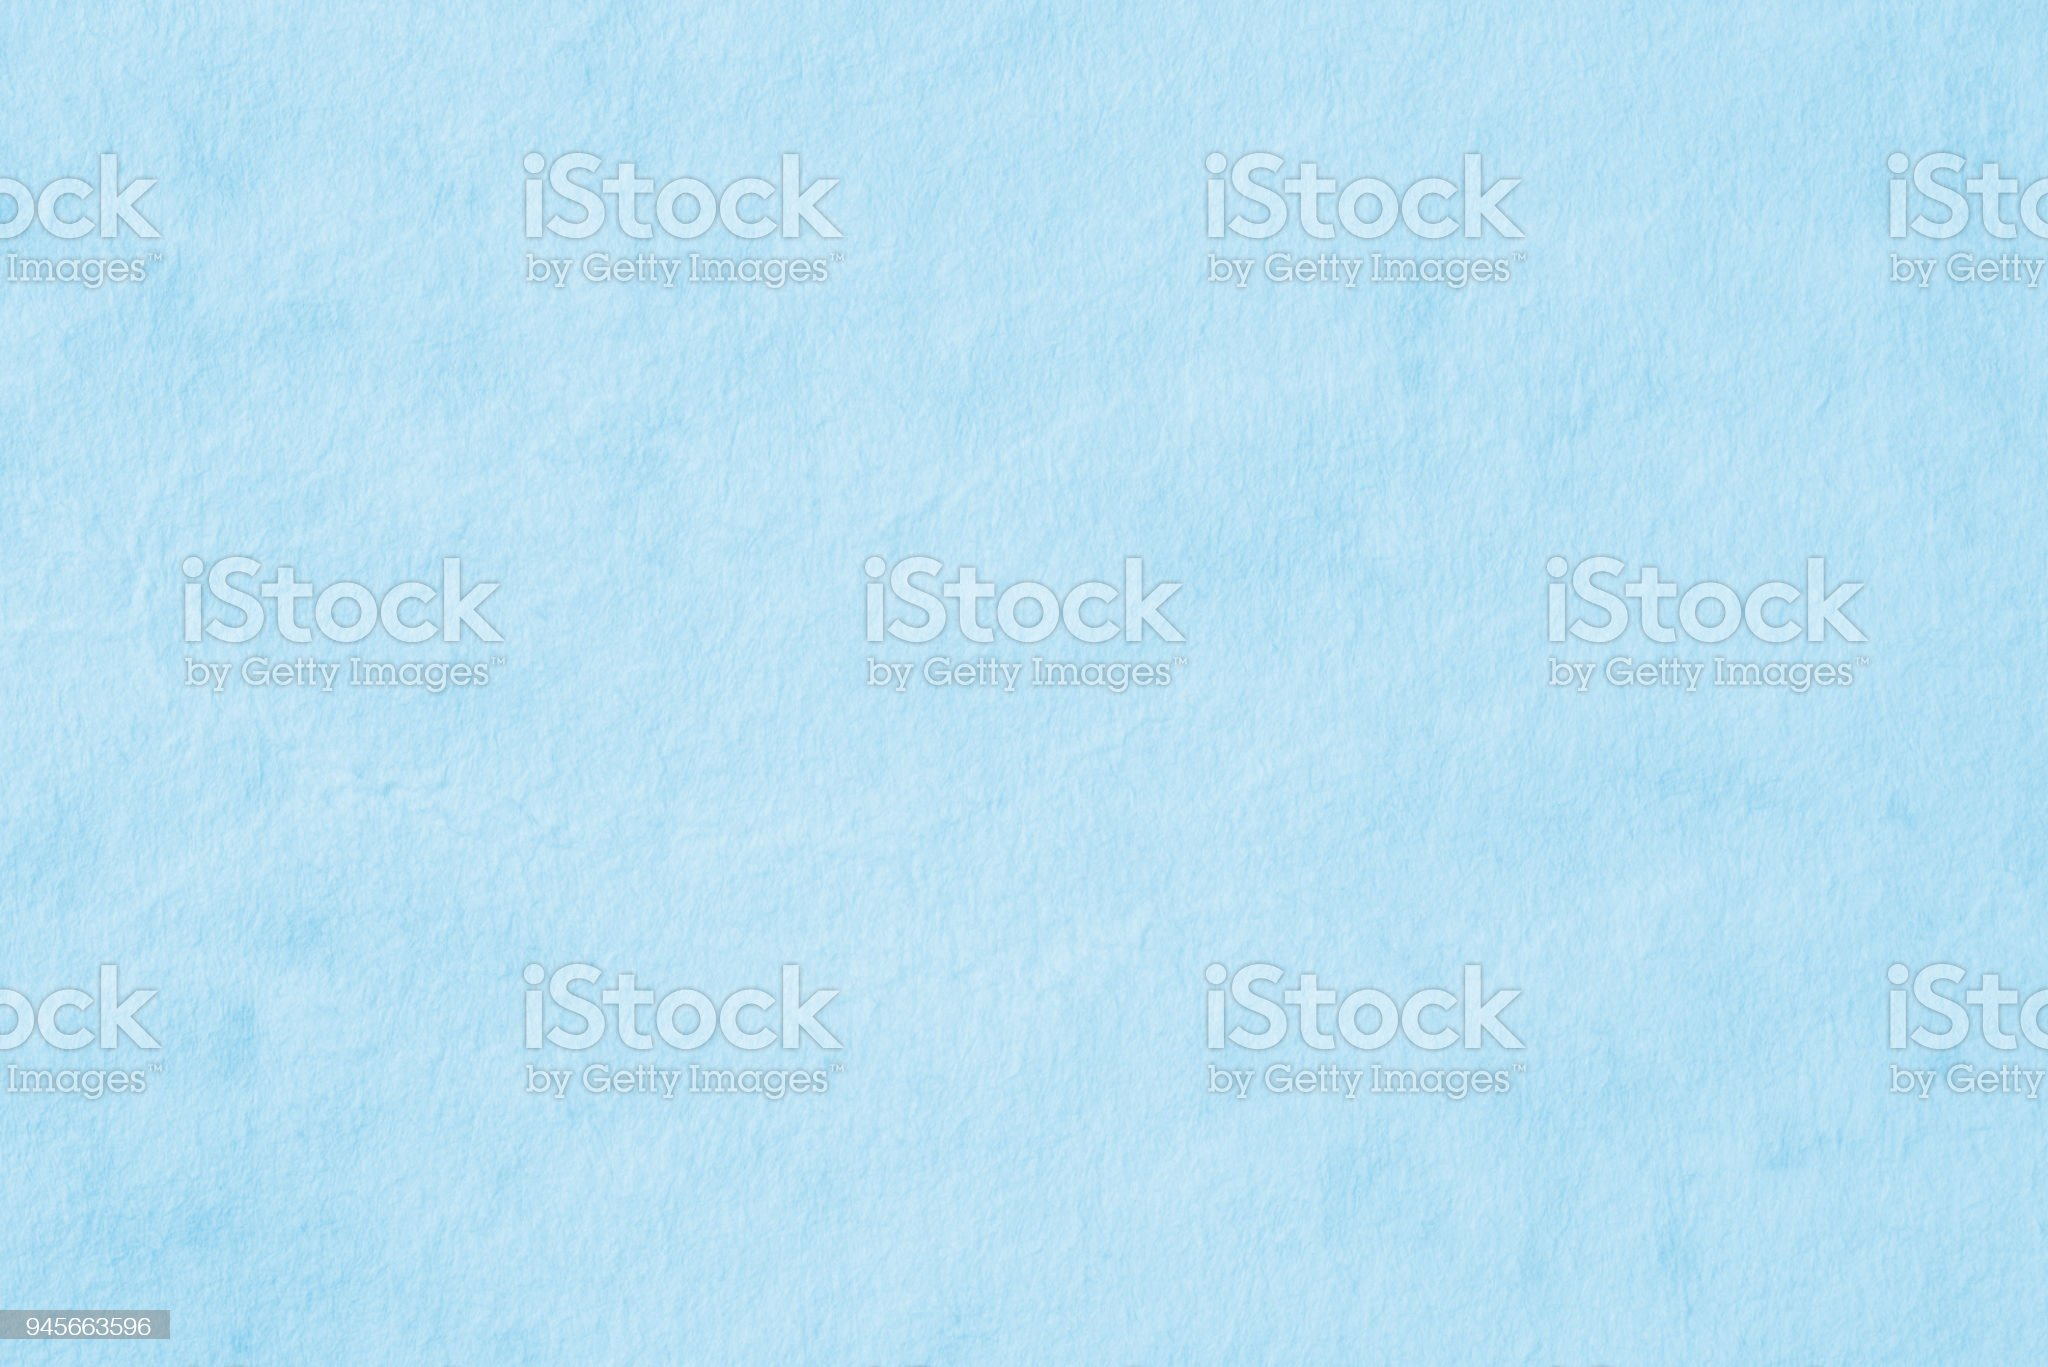
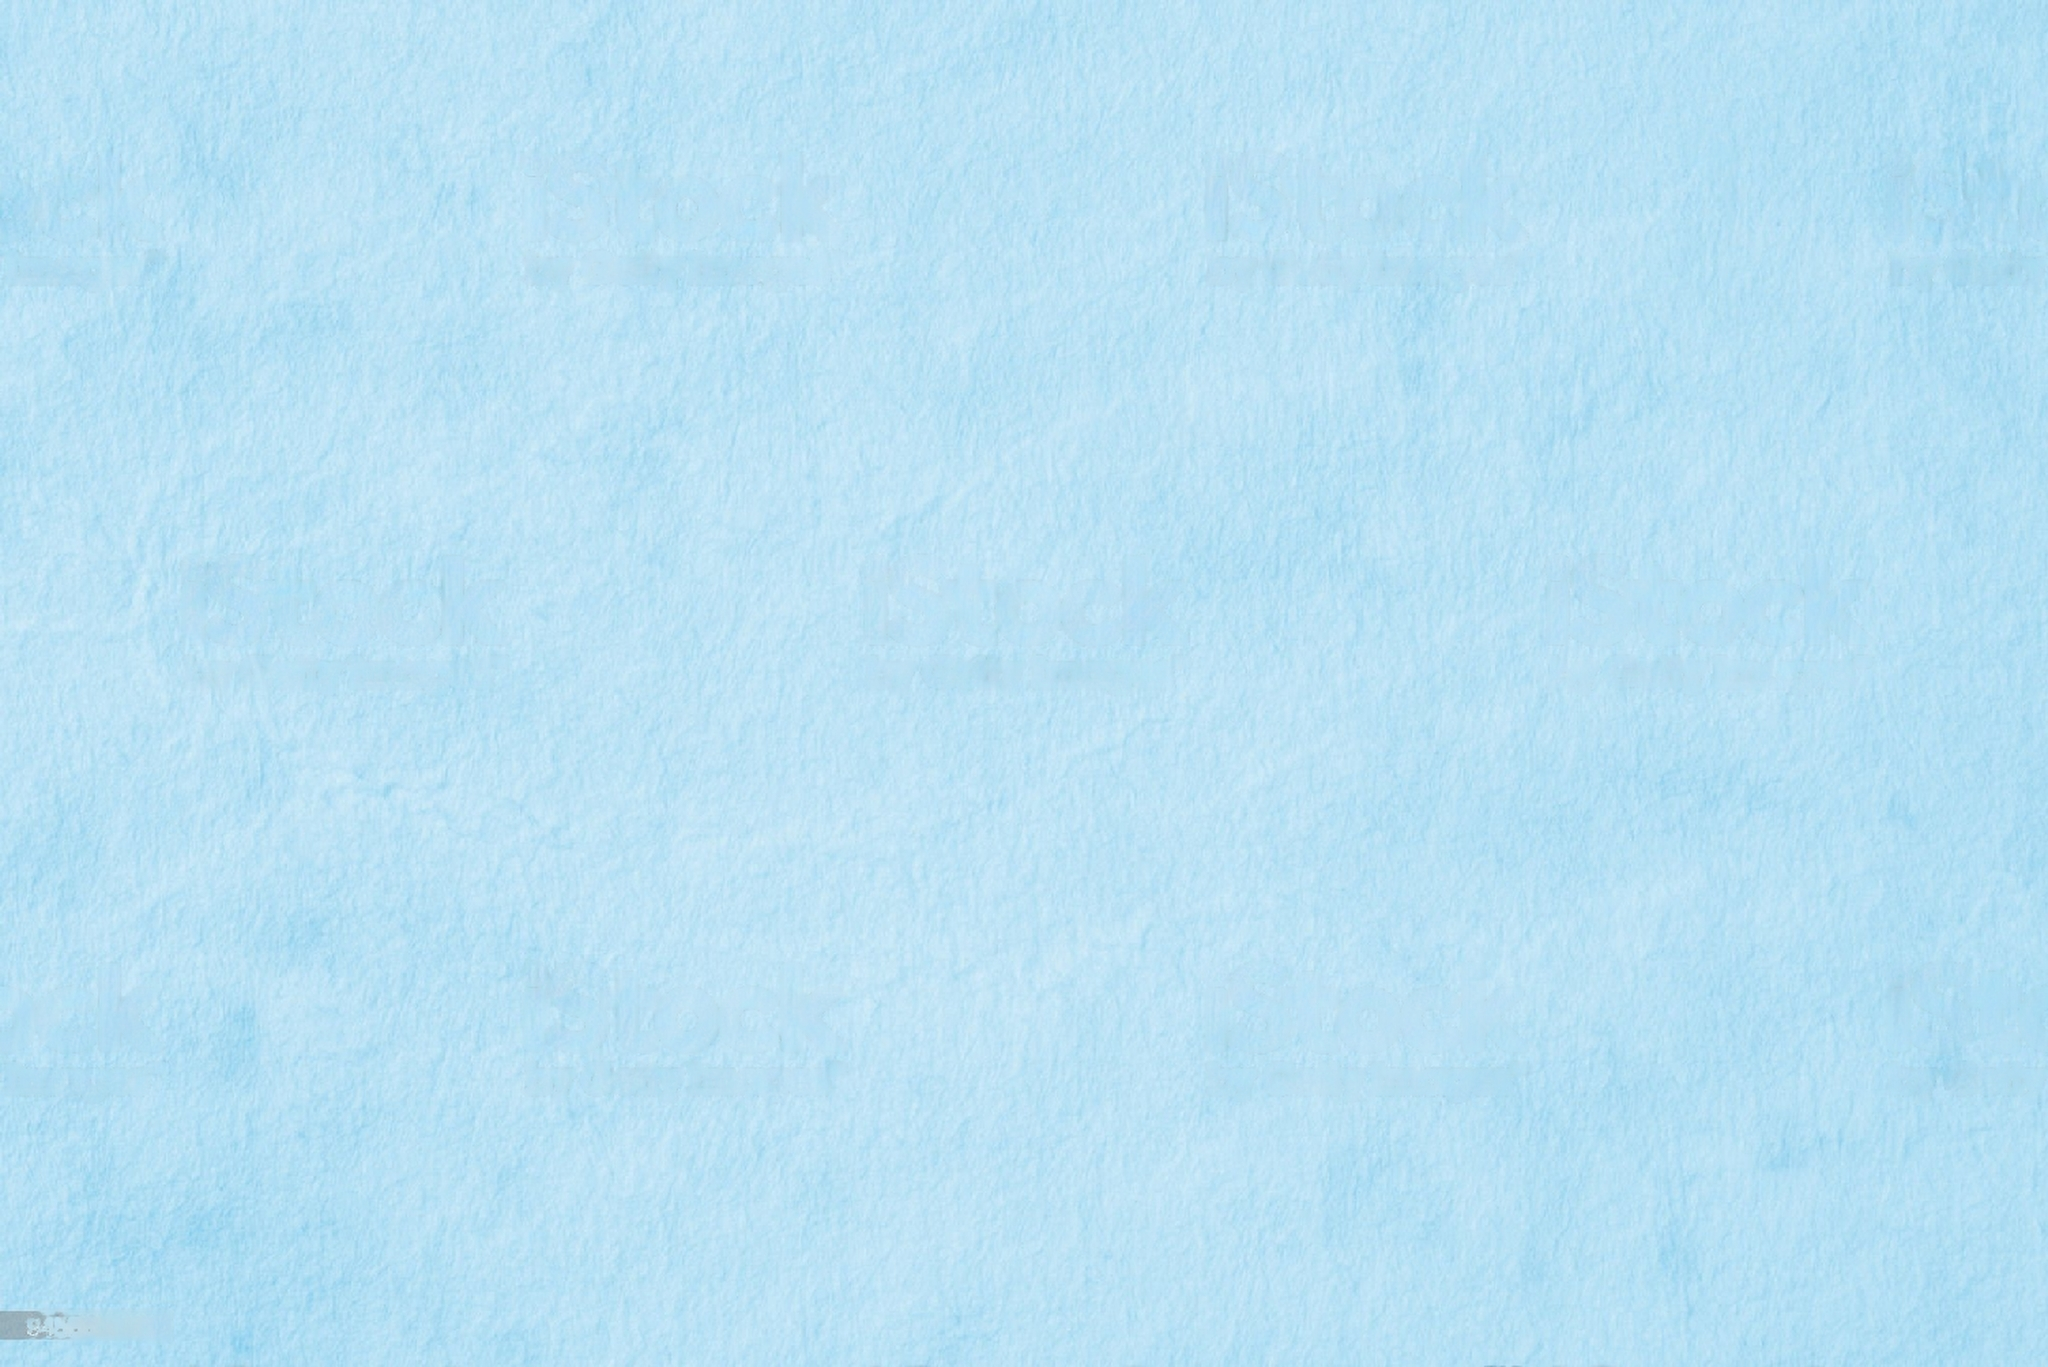
design changes

diff --git a/css/demo.css b/css/demo.css
@@ -29,13 +29,14 @@ body{
     /* overflow-x: hidden;
     margin: 5px; */ 
     padding: 0 10px;
-    background: url(../annie-spratt-im8y4BO2hso-unsplash.jpg);
-    /* background-image: url(../blue.jpg); */
+    /* background: url(../annie-spratt-im8y4BO2hso-unsplash.jpg); */
+    background-image: url(../blue.jpg);
     /* background-image: url(../WhatsApp\ Image\ 2023-03-07\ at\ 22.56.50.jpeg); */
     /* background-image: url(../red-sports-clothing-fabric-football-600w-1641708736.webp); */
     background-repeat: no-repeat;
     background-attachment: fixed;
     background-size: 100% 100%;
+    
     
   }
   
@@ -66,13 +67,38 @@ body{
 
 .main-border {
   border: 25px solid white;
-  border-top: none;
+  
   /* width: min-content; */
   width: 100%;
+  border-top: none !important;
+  animation: 2s main-border infinite;
   /* margin: 0px 25px; */
 }
 
 /* animation */
+@keyframes main-border {
+  0%{
+    border: 25px solid green;
+    border-color: green;
+  }
+  25%{
+    border: 25px solid red;
+    border-color: red;
+  }
+  50%{
+    border: 25px solid yellow;
+    border-color: yellow;
+  }
+  75%{
+    border: 25px solid black;
+    border-color: black;
+  }
+  100%{
+    border: 25px solid blue;
+    border-color: blue;
+  }
+}
+
 @keyframes border-animate {
     0%{
       border: 5px solid green;
@@ -156,7 +182,7 @@ body{
 }
 
 .nav nav .image {
-  height: 80px;
+  height: 100%;
   width: 100px;
 }
 
@@ -192,15 +218,17 @@ body{
   overflow: hidden;
   text-decoration: none;
   transition: 1s all;
+  border: 5px solid red;
+  animation: 2s border-animate infinite;
   box-shadow: -4px 8px 38px 0px rgba(65, 65, 65, 0.9);
 }
 
 .line1 {
   height: 48px;
   transform-origin: right;
-  transform: translate(188px, 17px) rotate(-32deg);
+  transform: translate(182px, 11px) rotate(-32deg);
   padding: 4px 0px;
-  min-width: 45em;
+  min-width: 34em;
   opacity: 1;
 }
 
@@ -209,7 +237,7 @@ body{
   transform: translate(-182px, 11px) rotate(32deg);
   transform-origin: left;
   padding: 4px 0px;
-  min-width: 45em;
+  min-width: 33em;
   opacity: 1;
 
 }
@@ -229,6 +257,8 @@ body{
   border: 2px solid #a71c12;
   height: 130px;
   width: 37em;
+  border: 5px solid red;
+  animation: 2s border-animate infinite;
   background: var(--whitecollar);
 
 }
@@ -236,6 +266,7 @@ body{
 .back-collar-add {
   background: none;
   border: none;
+  animation: none !important;
   box-shadow: none;
 }
 
@@ -250,7 +281,8 @@ body{
   padding: 0px !important;
   position: relative !important;
   top: 0px;
-  border-radius: 20px !important;
+  /* border-radius: 20px !important; */
+  border-right: none !important;
   box-shadow: 0px 0px 0px 0px !important;
 }
 
@@ -265,7 +297,8 @@ body{
   padding: 0px !important;
   position: relative !important;
   top: 0px;
-  border-radius: 20px !important;
+  /* border-radius: 20px !important; */
+  border-left: none !important;
   box-shadow: 0px 0px 0px 0px !important;
 
 
@@ -340,7 +373,7 @@ body{
 }
 
 .collar-button {
-
+animation: 2s border-animate infinite ;
   z-index: 4;
   position: relative;
   top: 304px;
@@ -626,7 +659,7 @@ body{
   text-align: center;
   padding: 19px;
   margin: 0px 0px;
-  margin-bottom: 81px;
+  /* margin-bottom: 81px; */
   font-size: 45px;
   text-decoration: underline;
   color: #a0241c;
@@ -871,7 +904,10 @@ body{
   margin-bottom: 50px;
   height: auto;
   font-family: system-ui;
-  background-color: #a71c12;
+  background: url(../annie-spratt-im8y4BO2hso-unsplash.jpg);
+  background-repeat: no-repeat;
+  background-attachment: fixed;
+  background-size: 100% 100%;
   display: flex;
   flex-direction: row;
   justify-content: space-around;
@@ -917,7 +953,10 @@ color: white;
 
 footer {
   width: 100%;
-  background: #a0251c;
+  background: url(../annie-spratt-im8y4BO2hso-unsplash.jpg);
+  background-repeat: no-repeat;
+  background-attachment: fixed;
+  background-size: 100% 100%;
   color: white;
 }
 

diff --git a/index.html b/index.html
@@ -92,10 +92,7 @@
     <div class="flex-class">  
 
       <div class="main-border ">
-        <div class="collar-adding">
-          <img src="./images/collar-1-removebg.png" alt="">
-          
-        </div>
+        
         <div class="side-button" id="side-button">
           <ul>
             <li><a href="tel:917226934772" target="_blank"><img src="./images/phone-logo.png" alt=""></a></li>
@@ -154,11 +151,26 @@
 
 
           </section>
+          
         </section>
+        
         <!-- border tshirt -->
         <!-- below collar -->
         <!-- qr card ends -->
         <section class="product-main">
+          <div  class="p-info">
+            <div class="p-info-flex">
+              <h3 class=" p-info-head">
+                Got an Incredible Tshirt Right Now?
+              </h3>
+              <span class="p-discription">
+                Keep your chin up
+              </span>
+            </div>
+            <button class="p-btn">
+              GET IN TOUCH
+            </button>
+          </div>
         <!-- Product User -->
         <div class="pheading" id="product1">
           <h1>Our Products</h1>
@@ -391,24 +403,7 @@
             </div>
           </div>
 
-          <div  class="p-info">
-            <div class="p-info-flex">
-              <h3 class=" p-info-head">
-                Got an Incredible Tshirt Right Now?
-              </h3>
-              <span class="p-discription">
-                Keep your chin up
-              </span>
-            </div>
-            <button class="p-btn">
-              GET IN TOUCH
-            </button>
-           
-       
-             
           
-            
-          </div>
          
         </div>
       </section>

diff --git a/css/responsive.css b/css/responsive.css
@@ -141,7 +141,8 @@
         border: 10px solid white;
     }
     .main-border {
-        border: none;
+        border: 15px solid white;
+        padding: 4px;
     }
     .collar-button{
         display: none;
@@ -149,7 +150,7 @@
 
     .final-aboutus {
         position: relative;
-        top: 11rem;
+        top: 5rem;
         padding: 0;
     }
 
@@ -190,16 +191,22 @@
         top: 210px;
         margin-bottom: 200px;
     }
-
-    .main-border {
-        margin-top: 115px;
+    .flex-class{
+        border: none !important;
+        position: relative;
+        top: 75px;
         background: url(../images/20230304_193132_0000.png) no-repeat !important;
         background-size: 100% !important;
+    }
+    .main-border {
+        margin-top: 115px;
+        animation: none;
         z-index: -1;
     }
     .product-main{
         position: relative;
         top: 200px;
+    margin-bottom: 238px;
     }
 
     footer{
@@ -212,7 +219,7 @@
     .side-button{
         display: flex;
         position: relative;
-        top: 115px;
+        top: 35px;
         
     }
     .side-button ul{
@@ -242,7 +249,7 @@
 @media (max-width:410px) {
     .side-button{
         position: relative;
-        top: 90px;     
+        top: -9px;     
     }
     .box .content:before{
         width: 70%;
@@ -254,7 +261,7 @@
 
     .final-aboutus {
         position: relative;
-        top: 2%;
+        top: 0%;
     }
     .final-aboutus .slide1{
         width: auto !important;
